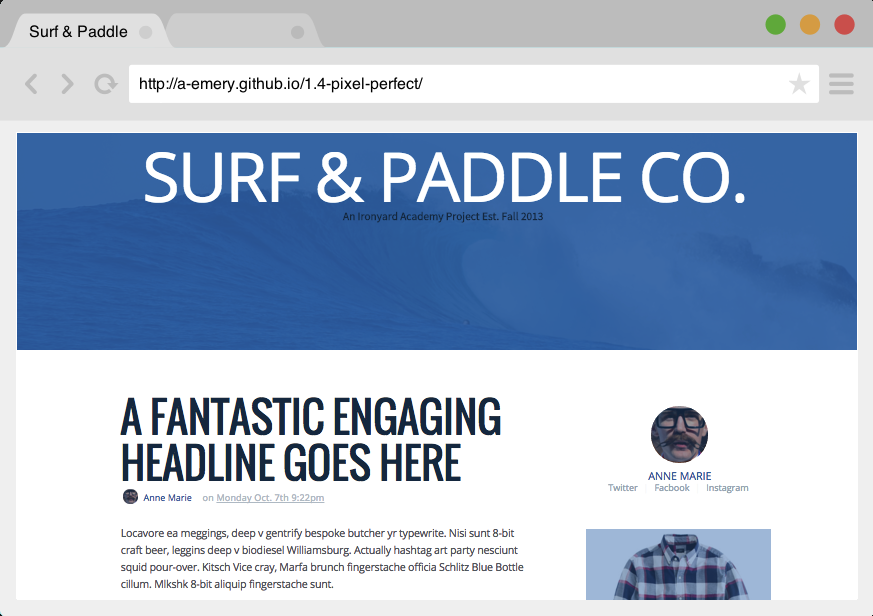
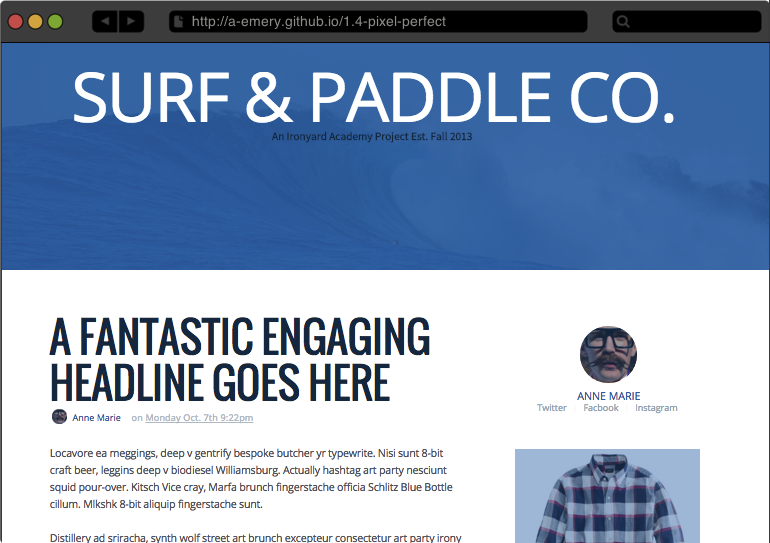
Added max-width to content

diff --git a/index.html b/index.html
@@ -10,6 +10,7 @@
   <title>Aaron Emery</title>
 </head>
 <body>
+<div>
 
   <div class="hamburgerContainer">
     <div class="hamburgerImageContainer">
@@ -47,6 +48,9 @@
       </div>
     </div>
   </div>
+
+<div class="lightContainerBackground">
+<div class="lightContainerContainer">
 
   <div class="about" id="about">
     <h1 class="aboutHeader">What I do</h1>
@@ -120,7 +124,7 @@
     <ul class="projectsList">
       <li class="projectsListItem">
         <div class="projectListItemImageContainer">
-          <img src="./images/carin4.png" alt="Carin Project" class="projectListItemImage">
+          <img src="./images/carin.png" alt="Carin Project" class="projectListItemImage">
           <div class="projectListItemDescription">
             <h3 class="projectListItemDescriptionName">Carin</h3>
             <p class="projectListItemDescriptionText">My final project at the Iron Yard. Carin is a web app built using React and Backbone to provide current information about mountain bike trails.</p>
@@ -131,7 +135,7 @@
       </li><!--
    --><li class="projectsListItem">
         <div class="projectListItemImageContainer">
-          <img src="./images/jakesonaplane3.png" alt="Jakes on a Plane Project" class="projectListItemImage">
+          <img src="./images/jakesonaplane.png" alt="Jakes on a Plane Project" class="projectListItemImage">
           <div class="projectListItemDescription">
             <h3 class="projectListItemDescriptionName">Jakes on a Plane</h3>
             <p class="projectListItemDescriptionText">Jakes on a Plane is a turn based game built using JavaScript, jQuery, and Underscore. This was a group project built in a weekend.</p>
@@ -142,7 +146,7 @@
       </li><!--
    --><li class="projectsListItem">
         <div class="projectListItemImageContainer">
-          <img src="./images/surfandpaddle3.png" alt="Surf and Paddle Project" class="projectListItemImage">
+          <img src="./images/surfandpaddle.png" alt="Surf and Paddle Project" class="projectListItemImage">
           <div class="projectListItemDescription">
             <h3 class="projectListItemDescriptionName">Surf & Paddle</h3>
             <p class="projectListItemDescriptionText">My first weekend project at the Iron Yard. Surf & Paddle is an attempt at a pixel perfect recreation based on a PDF image.</p>
@@ -154,7 +158,10 @@
     </ul>
   </div>
 
-
+</div>
+</div>
+<div class="darkContainerBackground">
+<div class="darkContainerContainer">
 
   <div class="contact" id="contact">
     <div class="contactLeft">
@@ -199,5 +206,7 @@
   <script type="text/javascript" src="./node_modules/jquery.scrollto/jquery.scrollTo.js"></script>
   <script type="text/javascript" src="./node_modules/jquery-sticky/jquery.sticky.js"></script>
   <script type="text/javascript" src="scripts/main.js"></script>
+</div>
+</div>
 </body>
 </html>

diff --git a/css/main.css b/css/main.css
@@ -34,6 +34,22 @@ body {
     body {
       min-width: 0; } }
 
+.lightContainerBackground {
+  width: 100%;
+  background: #effbfe; }
+
+.lightContainerContainer {
+  margin: 0 auto;
+  max-width: 1500px; }
+
+.darkContainerBackground {
+  width: 100%;
+  background: #222222; }
+
+.darkContainerContainer {
+  margin: 0 auto;
+  max-width: 1500px; }
+
 .heroContainer {
   position: fixed;
   top: 0;
@@ -59,7 +75,7 @@ body {
 
 .hero {
   font-family: "Tall Films";
-  background: url("../images/background2.jpg");
+  background: url("../images/background.jpg");
   background-position: top;
   background-attachment: fixed;
   background-repeat: no-repeat;

diff --git a/scss/main.scss b/scss/main.scss
@@ -57,6 +57,26 @@ body {
   }
 }
 
+.lightContainerBackground {
+  width: 100%;
+  background: $main-background-color;
+}
+
+.lightContainerContainer {
+  margin: 0 auto;
+  max-width: 1500px;
+}
+
+.darkContainerBackground {
+  width: 100%;
+  background: $dark-background;
+}
+
+.darkContainerContainer {
+  margin: 0 auto;
+  max-width: 1500px;
+}
+
 // HOME //
 
 .heroContainer {
@@ -89,7 +109,7 @@ body {
 
 .hero {
   font-family: "Tall Films";
-  background: url('../images/background2.jpg');
+  background: url('../images/background.jpg');
   background-position: top;
   background-attachment: fixed;
   background-repeat: no-repeat;
